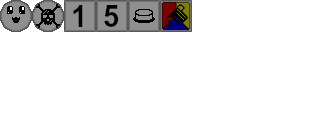
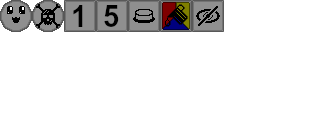
Achievements and Visuals improved
+ 'The Secret' Achievement
~ Dialog overhaul
~ Debug 'Display locked Levels' #T
~ CoBas now look at some Blocks if nearby else towards velocity direction

Changed region(s): [[0.5938, 0.0, 0.7188, 0.25]]

diff --git a/Assets/Level/Levels/World_001/Level_025.cs b/Assets/Level/Levels/World_001/Level_025.cs
@@ -1,0 +1,74 @@
+using Basics;
+using PlayerInteraction;
+using PlayerInteraction.Interactives;
+
+namespace Level
+{
+    public class Level_025 : Level
+    {
+        #region Singleton Pattern
+        public static Level_025 Instance { get; private set; }
+        static Level_025()
+        {
+            new Level_025();
+        }
+
+        private Level_025()
+        {
+            Instance = this;
+        }
+        #endregion
+
+        public override int ScaleX => 15;
+        public override int ScaleY => 12;
+
+        protected override void BuildScheme(LevelLayoutScheme scheme)
+        {
+            // Wall
+            scheme.Add(() => Wall.Create(), 3, 3, 3, 11);
+            scheme.Add(() => Wall.Create(), 7, 3, 7, 11);
+            scheme.Add(() => Wall.Create(), 11, 3, 11, 11);
+            scheme.Add(() => Wall.Create(), 4, 4, 6, 4);
+
+            // Flag
+            scheme.Add(() => GoalFlag.Create(), 13, 10);
+
+            // Ball
+            scheme.Add(() => ColorBall.Create(ColorCode.Red), 1, 1);
+            scheme.Add(() => ColorBall.Create(ColorCode.None), 5, 10);
+
+            // Box
+            scheme.Add(() => ColorBox.Create(ColorCode.Red), 4, 3);
+
+            // Button
+            scheme.Add(() => ColorButton.Create(ColorCode.None), 4, 4);
+
+            // Cleaner
+            scheme.Add(() => CleanerBox.Create(ColorCode.None), 3, 10);
+            scheme.Add(() => CleanerBox.Create(ColorCode.None), 7, 10);
+            scheme.Add(() => CleanerBox.Create(ColorCode.None), 6, 4);
+            scheme.Add(() => CleanerBox.Create(ColorCode.Green), 11, 10);
+
+
+            // Door
+            scheme.Add(() => ColorDoor.Create(ColorCode.Red, true), 3, 0, 3, 2);
+            scheme.Add(() => ColorDoor.Create(ColorCode.Red, false), 7, 0, 7, 2);
+            scheme.Add(() => ColorDoor.Create(ColorCode.Green, true), 11, 0, 11, 2);
+
+            // DDoor
+            scheme.Add(() => DetectorDoor.Create(ColorCode.Red, 2, false), 0, 4, 2, 4);
+            scheme.Add(() => DetectorDoor.Create(ColorCode.Red, 1, true), 0, 8, 2, 8);
+            scheme.Add(() => DetectorDoor.Create(ColorCode.Red, 2, false), 8, 4, 10, 4);
+
+            // Death
+
+            // Sensor
+            scheme.Add(() => Sensor.Create(3, 1), 1, 3);
+            scheme.Add(() => Sensor.Create(3, 1), 9, 8);
+            scheme.Add(() => Sensor.Create(2, 3), 10.5f, 1);
+
+            // Spikes
+            scheme.Add(() => Spike.Create(ColorCode.Green, false), 8, 7, 10, 7);
+        }
+    }
+}

diff --git a/Assets/PlayerInteraction/ColorBall.cs b/Assets/PlayerInteraction/ColorBall.cs
@@ -117,22 +117,40 @@ namespace PlayerInteraction
             if (!this.ColorBallInfo.IsAlive)
             {
                 this.EyeRenderer.sprite = GameAssets.ColorBallSprites[3];
+                this.EyeRenderer.transform.localPosition = Vector3.zero;
                 return;
             }
 
             int spriteIdx = this.ColorBallInfo.IsMoving ? 1 : 0;
 
+            Collider2D bestCollider = null;
+            float bestDistance = 0;
+
             foreach (var nearby in this.NearbyInteractiveObjects)
             {
+                Collider2D collider = nearby.Key;
+                float distance = (this.transform.position - collider.ClosestPoint(this.transform.position).ToVector3()).magnitude;
+
+                if (bestCollider == null || distance < bestDistance)
+                {
+                    bestCollider = collider;
+                }
+
                 if (!nearby.Value.TriggerReaction)
                     continue;
 
-                Collider2D collider = nearby.Key;
-
-                float distance = (this.transform.position - collider.ClosestPoint(this.transform.position).ToVector3()).magnitude;
-
                 if (distance < GameSettings.SlowMotionPeak && this.ColorBallInfo.IsAwake && this.ColorBallInfo.IsMoving)
                     spriteIdx = 2;
+            }
+
+            if (bestCollider != null)
+            {
+                Vector3 delta = bestCollider.transform.position - this.transform.position;
+                this.EyeRenderer.transform.localPosition = delta.normalized * .17f;
+            }
+            else
+            {
+                this.EyeRenderer.transform.localPosition = this.Body.velocity.normalized * .17f;
             }
 
             this.EyeRenderer.sprite = GameAssets.ColorBallSprites[spriteIdx];

diff --git a/Assets/UI/Templates/LevelSelector.cs b/Assets/UI/Templates/LevelSelector.cs
@@ -17,10 +17,17 @@ namespace UI.Templates
         [SerializeField] private GameObject buttonHost;
         public GameObject ButtonHost { get { return buttonHost; } }
 
-
+        bool LockedLoad { get; set; }
 
         private void Start()
         {
+            this.LoadLevels(false);
+        }
+
+        private void LoadLevels(bool includeLocked)
+        {
+            this.ButtonHost.transform.Clear();
+
             IEnumerable<World> worlds = LevelManager.Instance.GetWorlds();
 
             int worldIndex = 0;
@@ -34,7 +41,7 @@ namespace UI.Templates
                 {
                     Level.Level level = world.Get(levelIndex);
 
-                    if (!level.IsUnlocked)
+                    if (!includeLocked && !level.IsUnlocked)
                         continue;
 
                     LevelButton levelButton = GameObject.Instantiate(this.LevelButtonPrefab);
@@ -47,17 +54,15 @@ namespace UI.Templates
 
                 worldIndex++;
             }
+        }
 
-            //IEnumerable<int> levels = LevelManager.Instance.GetLevelIndices();
-
-            //foreach (var levelIndex in levels)
-            //{
-            //    LevelButton levelButton = GameObject.Instantiate(this.LevelButtonPrefab);
-            //    levelButton.Index = levelIndex;
-            //    levelButton.SetText($"{levelIndex}");
-
-            //    levelButton.transform.SetParent(this.ButtonHost.transform, false);
-            //}
+        private void Update()
+        {
+            if (!this.LockedLoad && Input.GetKeyDown(KeyCode.T))
+            {
+                this.LockedLoad = true;
+                this.LoadLevels(true);
+            }
         }
     }
 }

diff --git a/Assets/PlayerInteraction/Interactives/Functional/ColorDoor.cs b/Assets/PlayerInteraction/Interactives/Functional/ColorDoor.cs
@@ -100,7 +100,8 @@ namespace PlayerInteraction.Interactives
             if (!this.IsInvisible)
                 return;
 
-            Debug.Log(collider);
+            Debug.Log("The Secret!");
+            Achievements.AchievementManager.Instance.Set(Achievements.AchievementType.TheSecret);
 
             if (collider.GetComponentInParent<ColorBall>() is ColorBall colorBall)
             {

diff --git a/Assets/Extensions/~Transform.cs b/Assets/Extensions/~Transform.cs
@@ -1,0 +1,14 @@
+namespace UnityEngine
+{
+    public static partial class Extensions
+    {
+        public static Transform Clear(this Transform transform)
+        {
+            foreach (Transform child in transform)
+            {
+                GameObject.Destroy(child.gameObject);
+            }
+            return transform;
+        }
+    }
+}

diff --git a/Assets/UI/Templates/TitleCanvas.cs b/Assets/UI/Templates/TitleCanvas.cs
@@ -45,7 +45,7 @@ namespace UI.Templates
         public void Update()
         {
             if (this.IsAchievementOverlay && 
-                Input.GetKeyDown(KeyCode.Escape))
+                (Input.GetKeyDown(KeyCode.Escape) || Input.GetMouseButtonUp(1)))
             {
                 this.ShowAchievementOverlay(false);
             }

diff --git a/Assets/Achievements/AchievementManager.cs b/Assets/Achievements/AchievementManager.cs
@@ -185,10 +185,12 @@ namespace Achievements
 
     public enum AchievementType
     {
+        // Basics
         GrabACoBa,
         HoleInOne,
         DeadManWalking,
         FiveTimesAlready,
+        TheSecret,
 
         // Blocks / Tiles
         HitTheButton,

diff --git a/Assets/Level/Levels/World_001/World_001.cs b/Assets/Level/Levels/World_001/World_001.cs
@@ -28,6 +28,7 @@
             this.Levels.Add(Level_022.Instance);
             this.Levels.Add(Level_023.Instance);
             this.Levels.Add(Level_024.Instance);
+            this.Levels.Add(Level_025.Instance);
         }
     }
 }
